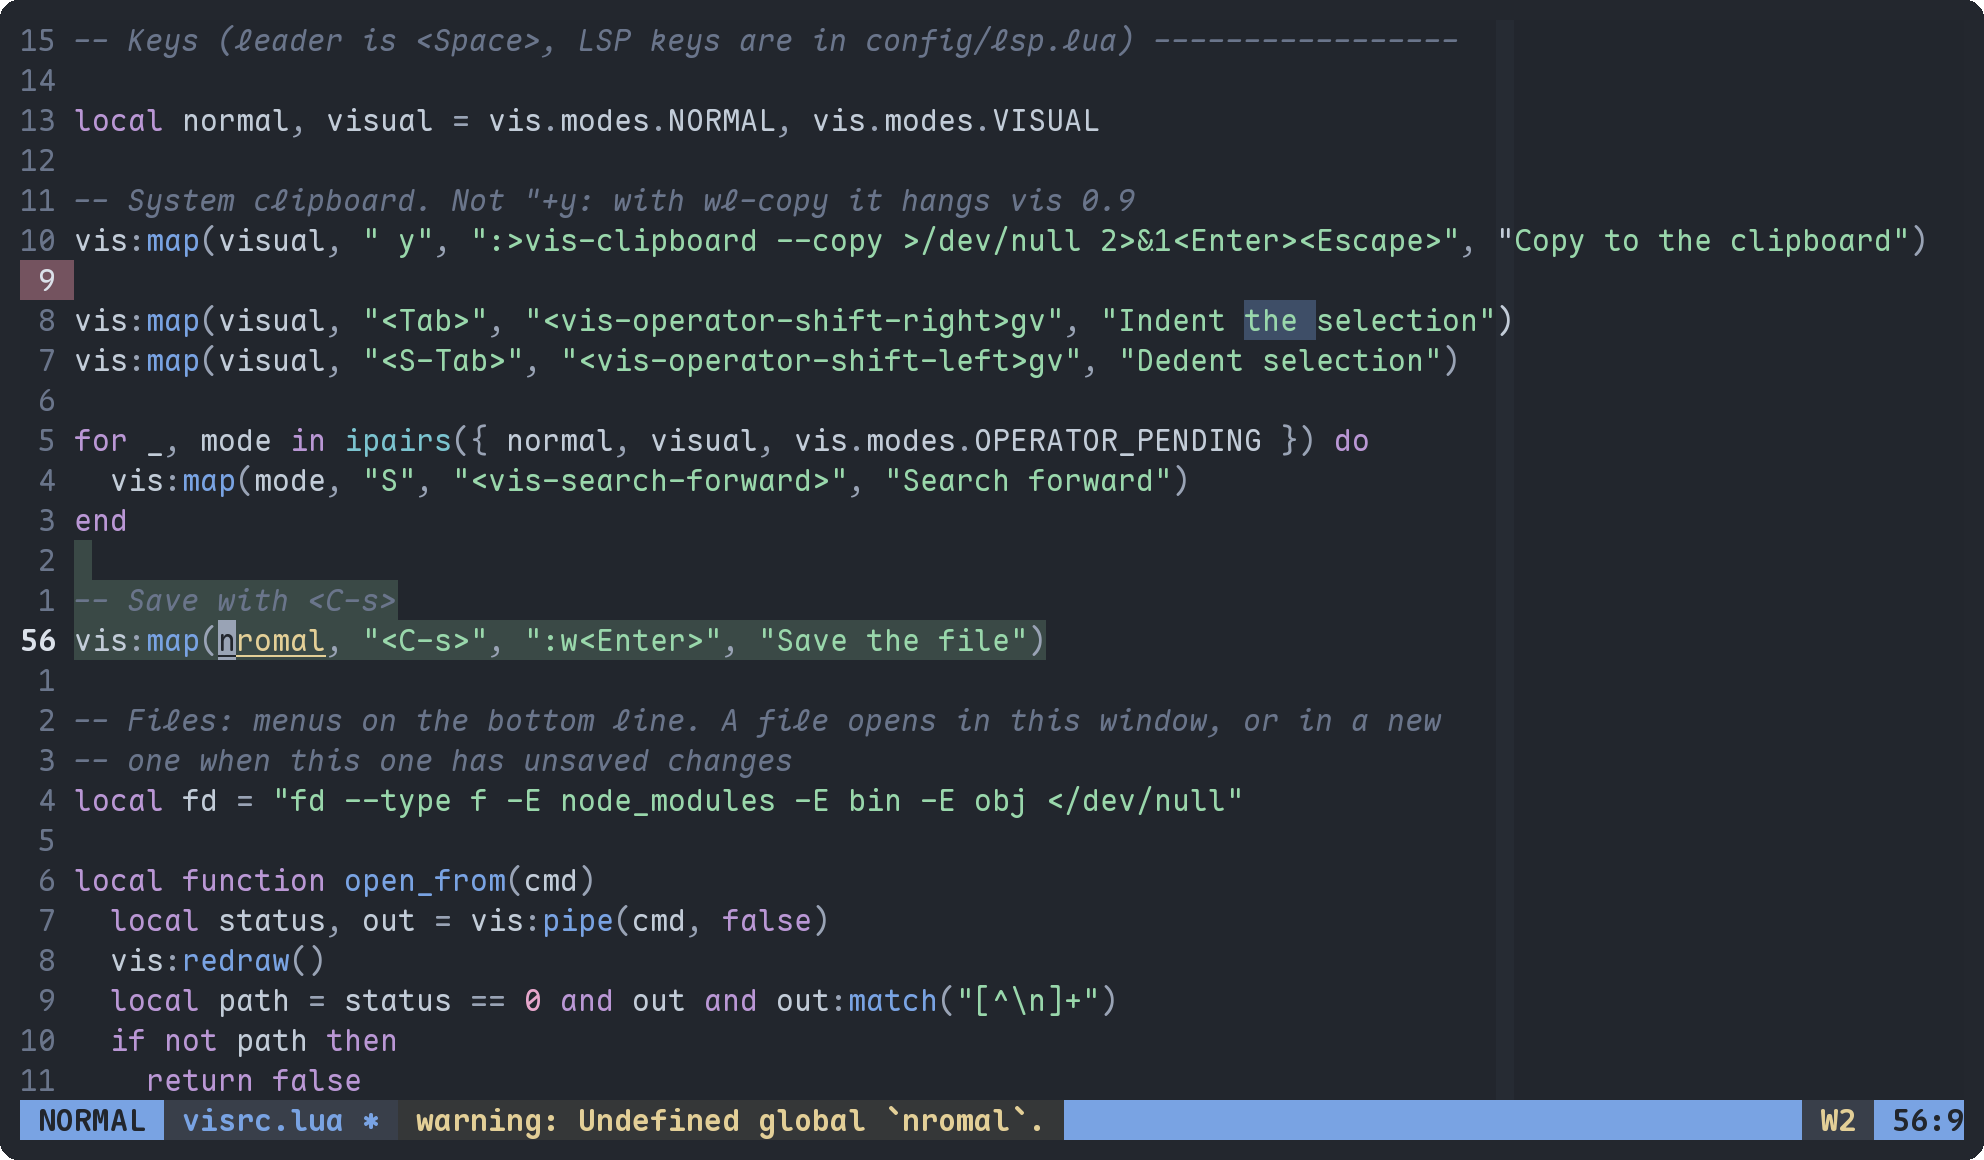
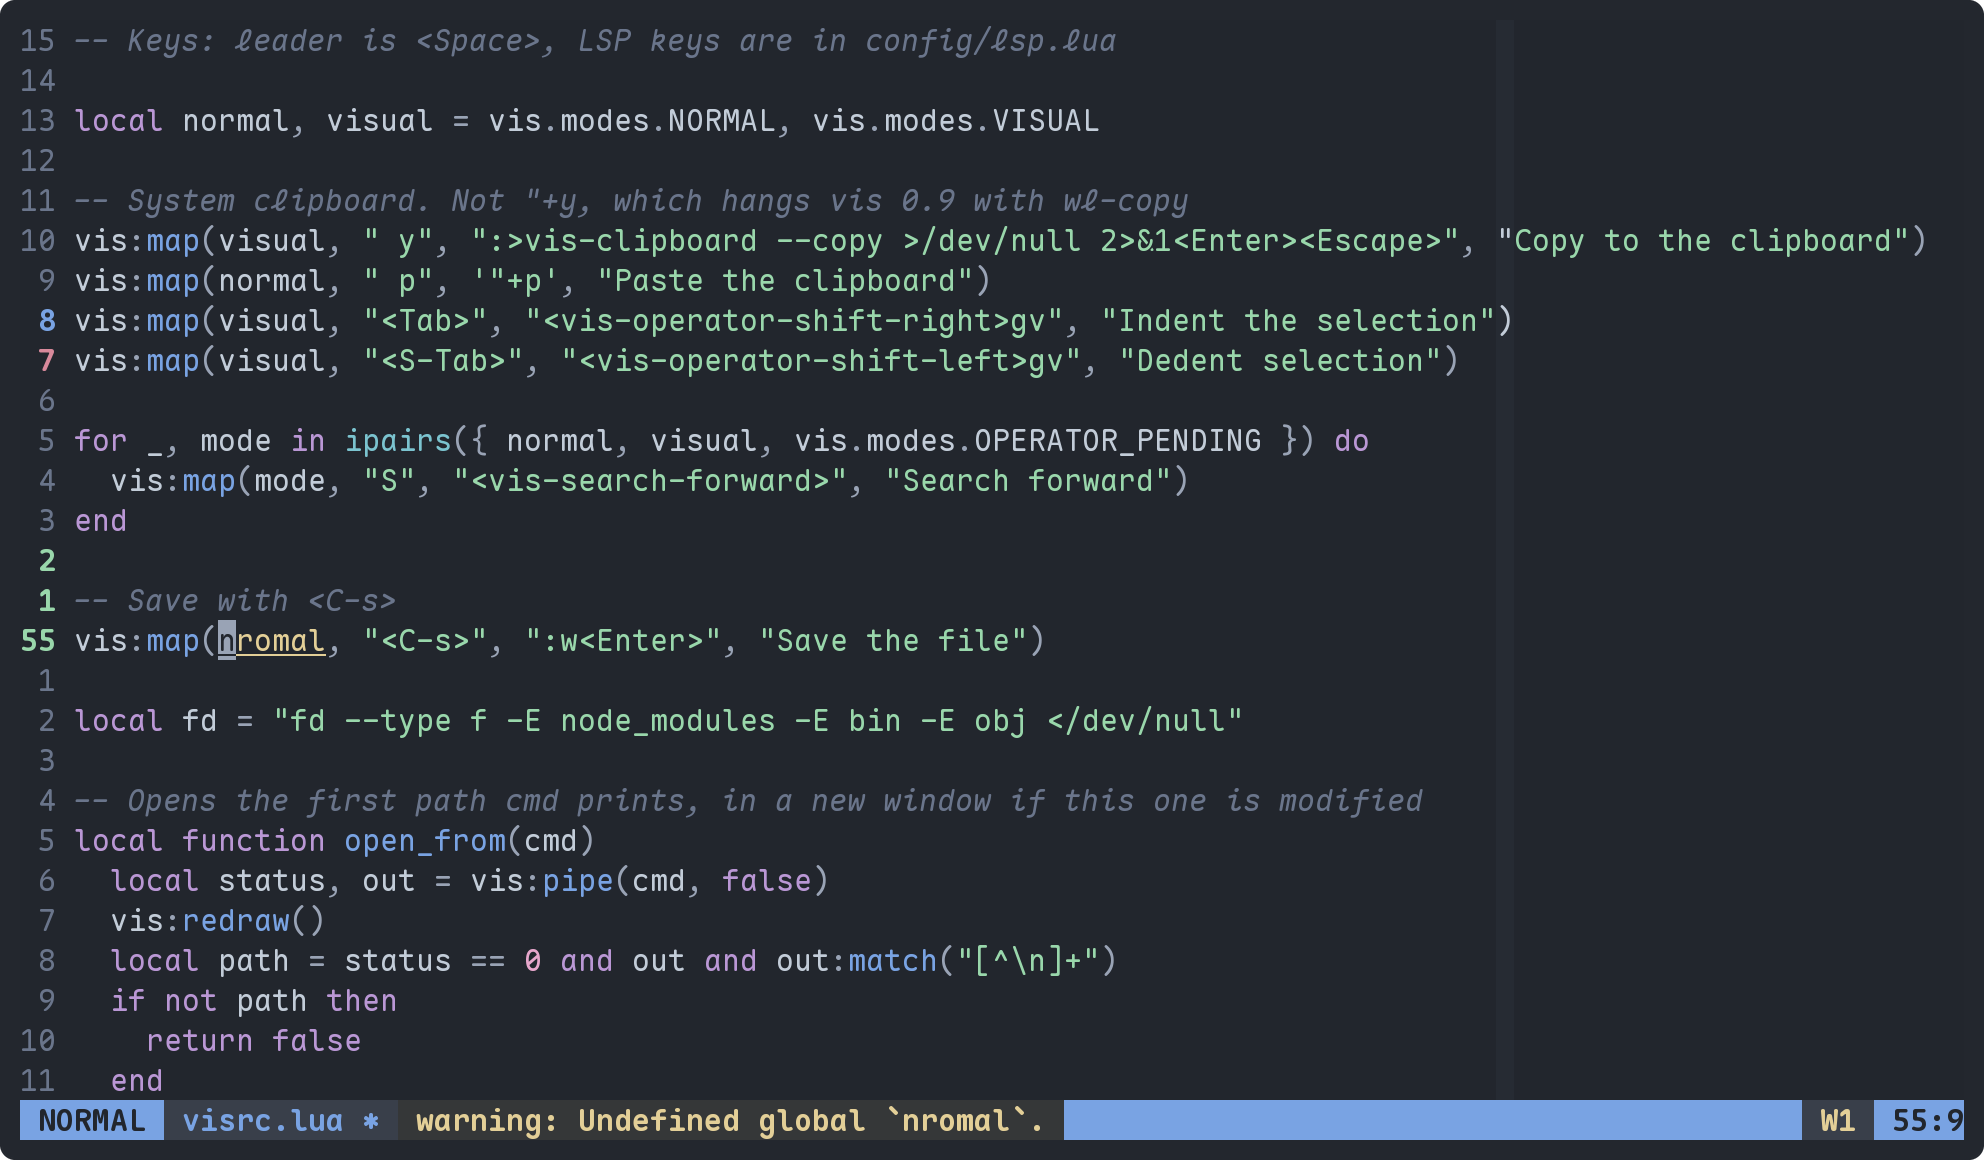
Mark vis git signs on the line numbers
vis-gitsigns colors the number of an added line green, a changed line blue and the line below removed lines red, instead of tinting the code and its changed words. The rime theme sets those colors, and the readme and its screenshot show the new signs.

diff --git a/vis/README.md b/vis/README.md
@@ -2,9 +2,9 @@
 
 my [vis](https://github.com/martanne/vis) config. [rime](https://github.com/w0x7y/rime) colors, lsp and [revo](https://github.com/if-not-nil/revo) support
 
-![vis with rime: git signs on unsaved edits, an undefined global underlined and its warning on the status line](screenshots/rime.png)
+![vis with rime: git signs in the line numbers of unsaved edits, an undefined global underlined and its warning on the status line](screenshots/rime.png)
 
-a removed line, a changed word and two new lines since the git index, and the cursor line's warning on the status line
+a removed line (red), a changed line (blue) and three new lines (green) since the git index, and the cursor line's warning on the status line
 
 ### install
 
@@ -50,7 +50,7 @@ no `K`: the status line shows the cursor line's problem, and hover is `:lspc-hov
 ~ oil: `<leader>e` opens the file's folder as a buffer, again for the folder above it. dot folders come first, then folders, dot files and files. rename a line to rename the file, `dd` to delete it, add a line to create one (end it in `/` for a folder), and `:w` lists the changes on the bottom line and asks before doing them. `<Enter>` opens an entry\
 ~ format on save with stylua, clang-format, ruff, rustfmt, csharpier, prettier, zig fmt and revo fmt, all at 2 spaces, and goimports (or gofmt) for Go, which indents with tabs\
 ~ diagnostics underline the problem in its color: red error, yellow warning, blue info, cyan hint\
-~ git signs against the index, updated as you type: added lines and changed words get a tint, text removed from a line a red cell, and the line below removed lines a red number. the index is read on open and save, so a `git add` from a shell shows after the next save\
+~ git signs against the index, updated as you type: added lines get a green line number, changed lines a blue one, and the line below removed lines a red one. the index is read on open and save, so a `git add` from a shell shows after the next save\
 ~ vis-lspc, vis-modal, vis-autoclose and vis-colorizer, copied into `plugins/`, their fixes marked `Local patch`. vis-gitsigns, vis-cursor and vis-oil are our own, and so is `plugins/style-compat.lua`, which picks the style calls for vis 0.9 or a later build\
 ~ vis-cursor and vis-oil depend on nothing else here: copy the folder into any vis config and `require` it
 
